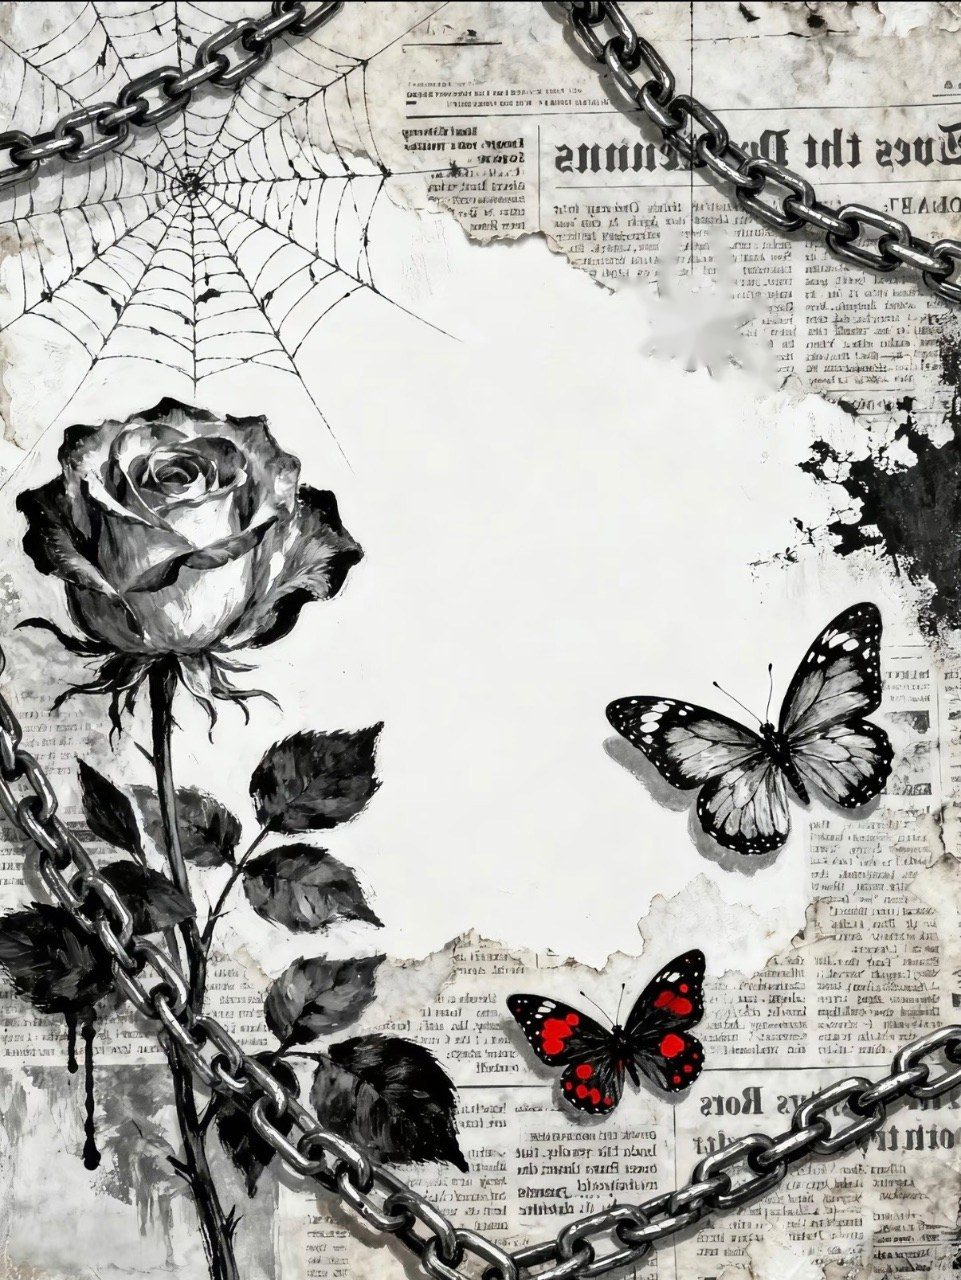
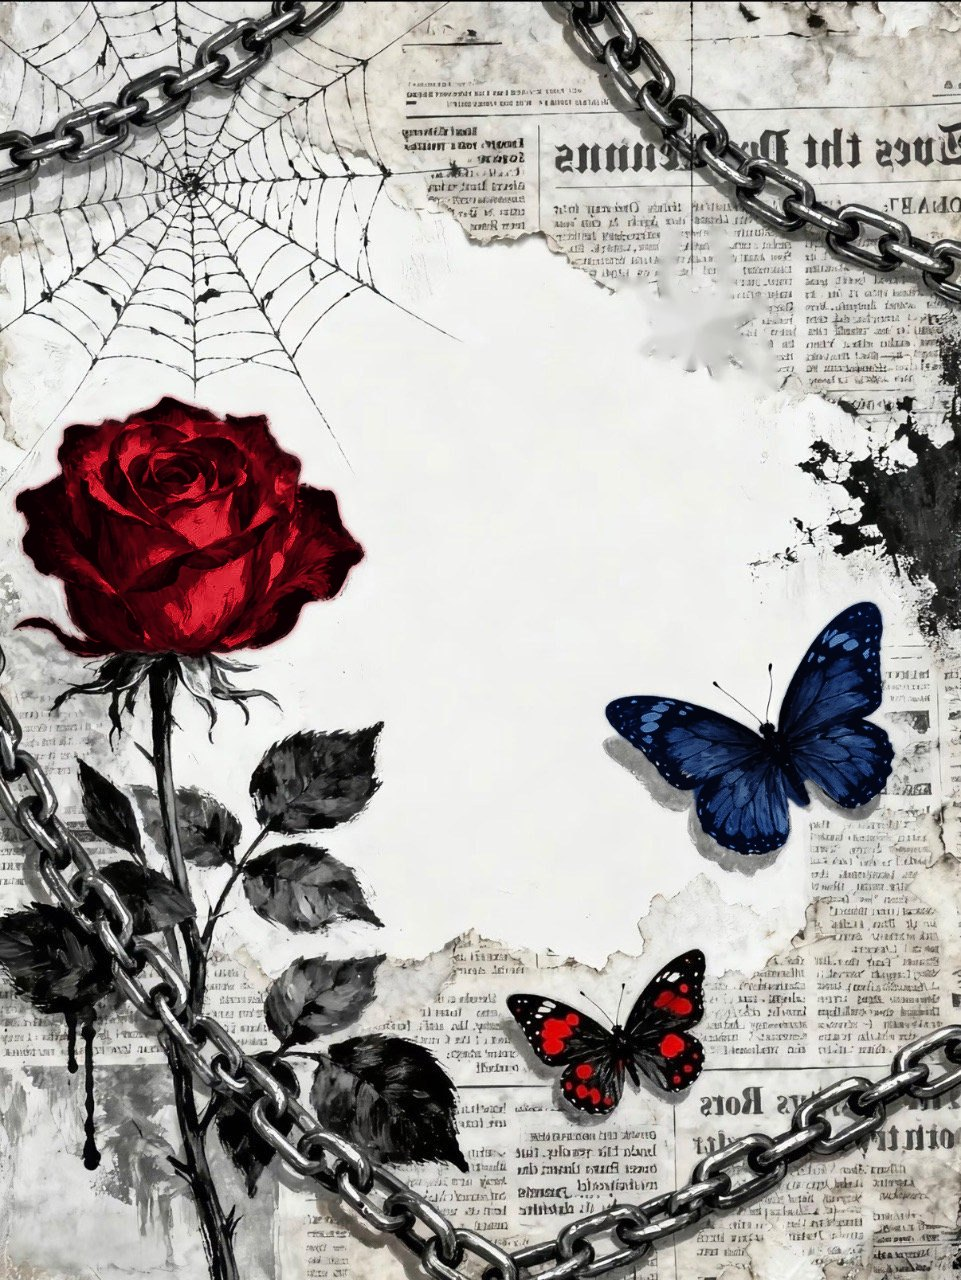
欲望室：玫瑰染暗红透鲜红，大蝴蝶黑蓝渐变；拉开后中间织一张完整的网，名字收在那块白里

Changed region(s): [[0.0, 0.3125, 0.3746, 0.5312], [0.6243, 0.4688, 0.9365, 0.6875]]

diff --git a/static/yuwang/room.html b/static/yuwang/room.html
@@ -25,7 +25,7 @@ canvas{position:absolute;left:0;top:0}
 .pg .sd b{display:block;font-weight:normal;font-size:12px;color:#999;margin-bottom:4px;letter-spacing:2px}
 .none{text-align:center;color:#888;margin-top:30vh;font-size:16px}
 </style></head><body>
-<div id="st"><img id="bg" src="/static/yuwang/bg.jpg"><canvas id="cv" width="961" height="1280"></canvas>
+<div id="st"><img id="bg" src="/static/yuwang/bg.jpg?v=3"><canvas id="cv" width="961" height="1280"></canvas>
 <div id="words"></div><div id="rose"></div><div id="stem"></div><div id="spHit"></div><div class="bf" id="bf1" style="left:600px;top:595px;width:295px;height:260px"></div><div class="bf" id="bf2" style="left:500px;top:940px;width:215px;height:165px"></div></div>
 <div id="diary"><div class="hd"><span class="bk" id="dbk">← 回去</span><span class="tt">噜噜日记</span></div><div id="dlist"></div></div>
 <script>
@@ -41,7 +41,7 @@ var D=window.YW_DATA||null;
 var S0={x:692,y:233}, SPW=185, SPH=220, SPOX=92, SPOY=18;  // 抠图左上(600,215)，头顶挂丝点在图里(692,233)
 var pull=0, vel=0, drag=false, dragY0=0, pull0=0, sway=0, open=false, openT=0;
 var WC={x:188,y:183}, WR=250;          // 原画那张网的中心和半径
-var BC={x:480,y:650}, BZ=1.45;          // 拉开时网挪到中间放大
+          // 拉开时网挪到中间放大
 var hit=document.getElementById('spHit');
 function layout(){var W=innerWidth,H=innerHeight,s=Math.min(W/IW,H/IH);st.style.transform='translate('+((W-IW*s)/2)+'px,'+((H-IH*s)/2)+'px) scale('+s+')';st._s=s;}
 addEventListener('resize',layout);layout();
@@ -80,29 +80,40 @@ function fillWords(){
 }
 // 网
 function webPts(c,R,t){var ds=dims(),n=ds.length||18,pts=[];for(var i=0;i<n;i++){var a=-Math.PI/2+i/n*Math.PI*2,v=val(ds[i].key)/100;var r=R*(0.06+0.94*v)*(1+0.012*Math.sin(t*1.3+i));pts.push({x:c.x+Math.cos(a)*r,y:c.y+Math.sin(a)*r,a:a,v:v,name:ds[i].name,raw:val(ds[i].key)});}return pts;}
+// 拉开以后那张：自己织一张完整的网，铺在中间那块白上
+var BC={x:575,y:615}, BRR=170, PW=null, PWR=null, PWS=0;
+function weave(){var sz=Math.ceil(BRR*2.3),c=document.createElement('canvas');c.width=c.height=sz;var x=c.getContext('2d'),o=sz/2,n=18,ang=[];
+  for(var i=0;i<n;i++)ang.push(-Math.PI/2+i/n*Math.PI*2+(Math.sin(i*7.3)*0.05));
+  x.strokeStyle='#161514';x.lineCap='round';
+  for(var i=0;i<n;i++){x.lineWidth=1.5;x.globalAlpha=.85;x.beginPath();x.moveTo(o,o);x.lineTo(o+Math.cos(ang[i])*BRR*1.07,o+Math.sin(ang[i])*BRR*1.07);x.stroke();}
+  for(var g=1;g<=11;g++){var rr=BRR*(0.09+0.91*g/11);x.lineWidth=g<3?1.6:1.15;x.globalAlpha=.78;x.beginPath();
+    for(var i=0;i<=n;i++){var a0=ang[i%n],r0=rr*(1+Math.sin(i*3.1+g)*0.025),px=o+Math.cos(a0)*r0,py=o+Math.sin(a0)*r0;
+      if(i==0){x.moveTo(px,py);continue;}var am=(ang[(i-1)%n]+a0+(i==n?Math.PI*2:0))/2,sag=rr*0.93;x.quadraticCurveTo(o+Math.cos(am)*sag,o+Math.sin(am)*sag,px,py);}
+    x.stroke();}
+  x.globalAlpha=1;x.fillStyle='#161514';x.beginPath();x.arc(o,o,4,0,7);x.fill();
+  var r=document.createElement('canvas');r.width=r.height=sz;var y=r.getContext('2d');y.drawImage(c,0,0);y.globalCompositeOperation='source-in';y.fillStyle='#b0101c';y.fillRect(0,0,sz,sz);
+  PW=c;PWR=r;PWS=sz;}
+function redClip(c,R,pts,n){ctx.beginPath();
+  for(var i=0;i<n;i++){var p=pts[i],q=pts[(i+1)%n],mx=(p.x+q.x)/2,my=(p.y+q.y)/2;if(i==0){var l=pts[n-1];ctx.moveTo((l.x+p.x)/2,(l.y+p.y)/2);}ctx.quadraticCurveTo(p.x,p.y,mx,my);}
+  ctx.closePath();ctx.clip();}
 function drawWeb(t,k){
-  var z=1+(BZ-1)*k, c={x:WC.x+(BC.x-WC.x)*k,y:WC.y+(BC.y-WC.y)*k}, R=WR*z, pts=webPts(c,R,t), n=pts.length;
-  ctx.save();
-  if(k>0.01&&WB.complete){ // 拉开：同一张网挪到中间放大，底下垫一层纸
-    ctx.globalAlpha=k;var gr=ctx.createRadialGradient(c.x,c.y,R*.4,c.x,c.y,R*1.35);gr.addColorStop(0,'rgba(244,241,234,.94)');gr.addColorStop(1,'rgba(244,241,234,0)');
-    ctx.fillStyle=gr;ctx.beginPath();ctx.arc(c.x,c.y,R*1.35,0,7);ctx.fill();
-    ctx.drawImage(WB,c.x-WOX*z,c.y-WOY*z,WB.width*z,WB.height*z);ctx.globalAlpha=1;
-  }
-  // 染红：数多高，从网心往外沿着丝红多远。边是圆滑的，不是折线
-  if(WRED){
-    ctx.beginPath();
-    for(var i=0;i<n;i++){var p=pts[i],q=pts[(i+1)%n],mx=(p.x+q.x)/2,my=(p.y+q.y)/2;if(i==0){var l=pts[n-1];ctx.moveTo((l.x+p.x)/2,(l.y+p.y)/2);}ctx.quadraticCurveTo(p.x,p.y,mx,my);}
-    ctx.closePath();ctx.clip();
-    ctx.globalAlpha=0.82+0.18*Math.sin(t*1.4);
-    ctx.drawImage(WRED,c.x-WOX*z,c.y-WOY*z,WRED.width*z,WRED.height*z);
-    ctx.drawImage(WRED,c.x-WOX*z,c.y-WOY*z,WRED.width*z,WRED.height*z);
-  }
+  // 角落里原来那张：一直在，丝按数染红
+  var pts=webPts(WC,WR,t),n=pts.length;
+  if(WRED){ctx.save();redClip(WC,WR,pts,n);ctx.globalAlpha=0.82+0.18*Math.sin(t*1.4);
+    ctx.drawImage(WRED,WC.x-WOX,WC.y-WOY);ctx.drawImage(WRED,WC.x-WOX,WC.y-WOY);ctx.restore();}
+  if(k<0.01)return;
+  if(!PW)weave();
+  var R=BRR*(0.6+0.4*k),c=BC,bp=webPts(c,R,t);
+  ctx.save();ctx.globalAlpha=k;
+  var gr=ctx.createRadialGradient(c.x,c.y,R*0.9,c.x,c.y,R*1.75);gr.addColorStop(0,'rgba(243,240,233,.97)');gr.addColorStop(.7,'rgba(243,240,233,.85)');gr.addColorStop(1,'rgba(243,240,233,0)');
+  ctx.fillStyle=gr;ctx.beginPath();ctx.arc(c.x,c.y,R*1.75,0,7);ctx.fill();
+  var z=R/BRR;ctx.drawImage(PW,c.x-PWS/2*z,c.y-PWS/2*z,PWS*z,PWS*z);
+  ctx.save();redClip(c,R,bp,n);ctx.globalAlpha=k*(0.85+0.15*Math.sin(t*1.4));ctx.drawImage(PWR,c.x-PWS/2*z,c.y-PWS/2*z,PWS*z,PWS*z);ctx.drawImage(PWR,c.x-PWS/2*z,c.y-PWS/2*z,PWS*z,PWS*z);ctx.restore();
   ctx.restore();
-  if(k>0.3){ctx.save();ctx.globalAlpha=(k-0.3)/0.7;ctx.textBaseline='middle';
-    pts.forEach(function(p){var lx=c.x+Math.cos(p.a)*R*1.12,ly=c.y+Math.sin(p.a)*R*1.08;var ca=Math.cos(p.a);ctx.textAlign=ca>0.3?'left':ca<-0.3?'right':'center';
-      ctx.shadowColor='#f4f1ea';ctx.shadowBlur=8;
-      ctx.font='24px "Kaiti SC","STKaiti",serif';ctx.fillStyle=p.raw>=55?'#a3121a':'#1a1a1a';ctx.fillText(p.name,lx,ly-12);
-      ctx.font='18px Georgia,serif';ctx.fillStyle='#555';ctx.fillText(Math.round(p.raw),lx,ly+13);});
+  if(k>0.4){ctx.save();ctx.globalAlpha=(k-0.4)/0.6;ctx.textBaseline='middle';ctx.shadowColor='#f3f0e9';ctx.shadowBlur=6;
+    bp.forEach(function(p){var lx=c.x+Math.cos(p.a)*R*1.2,ly=c.y+Math.sin(p.a)*R*1.16,ca=Math.cos(p.a);ctx.textAlign=ca>0.35?'left':ca<-0.35?'right':'center';
+      ctx.font='19px "Kaiti SC","STKaiti",serif';ctx.fillStyle=p.raw>=55?'#a3121a':'#1a1a1a';ctx.fillText(p.name,lx,ly-9);
+      ctx.font='14px Georgia,serif';ctx.fillStyle='#6a6660';ctx.fillText(Math.round(p.raw),lx,ly+10);});
     ctx.restore();}
 }
 function drawSpider(t){
